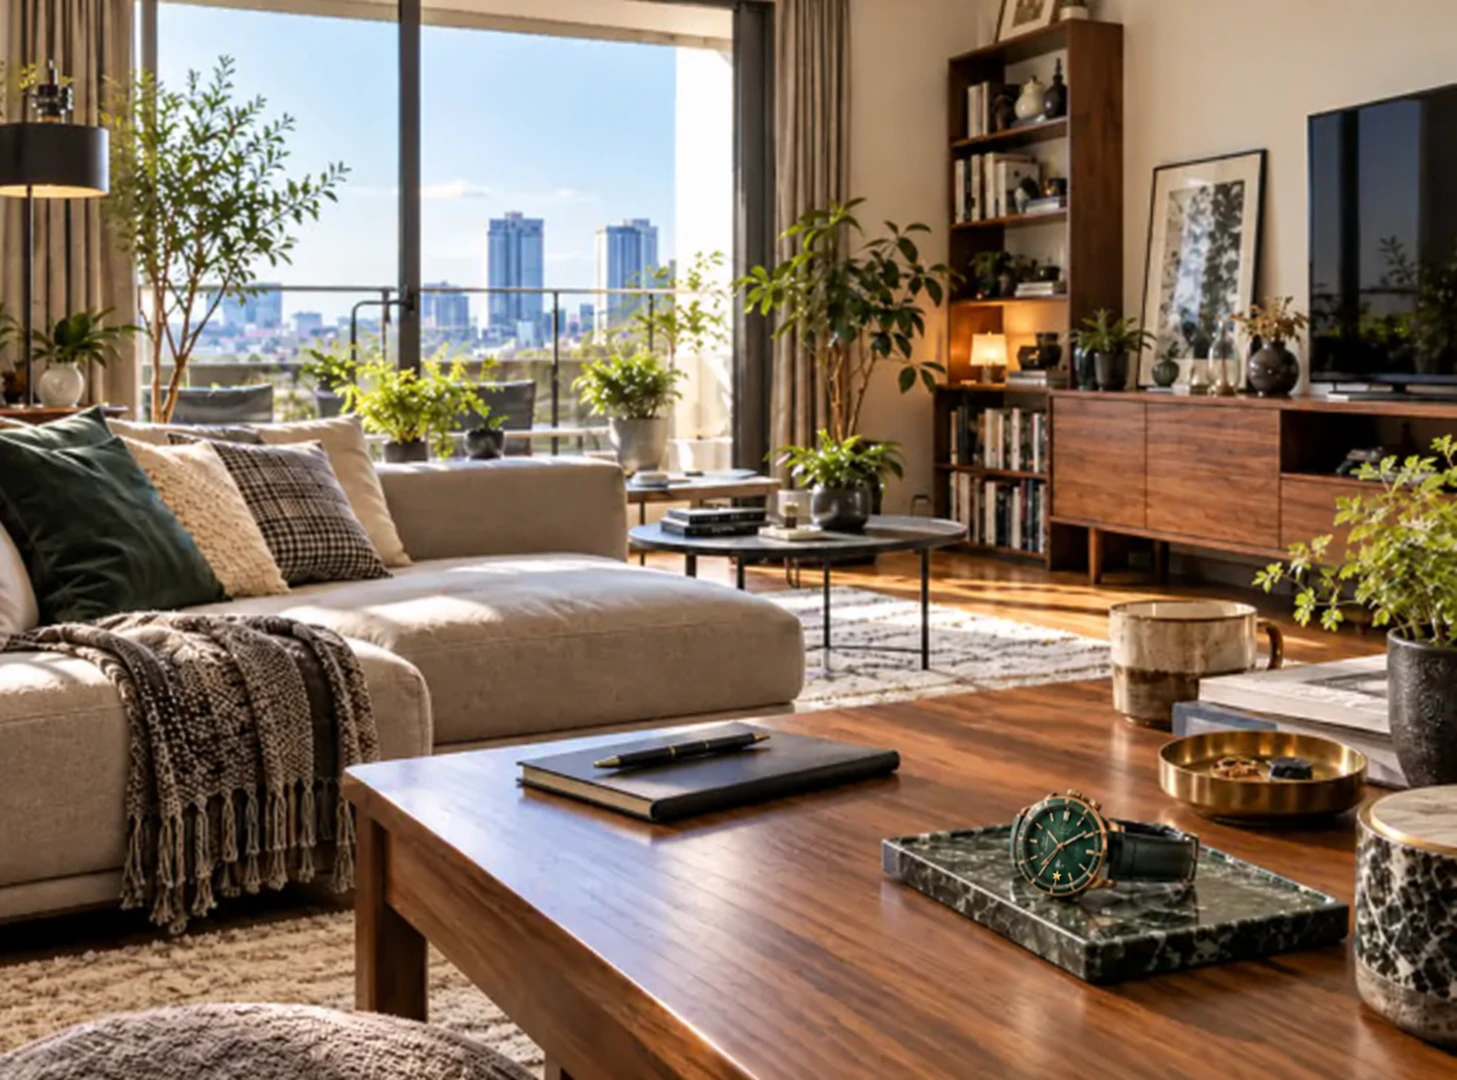
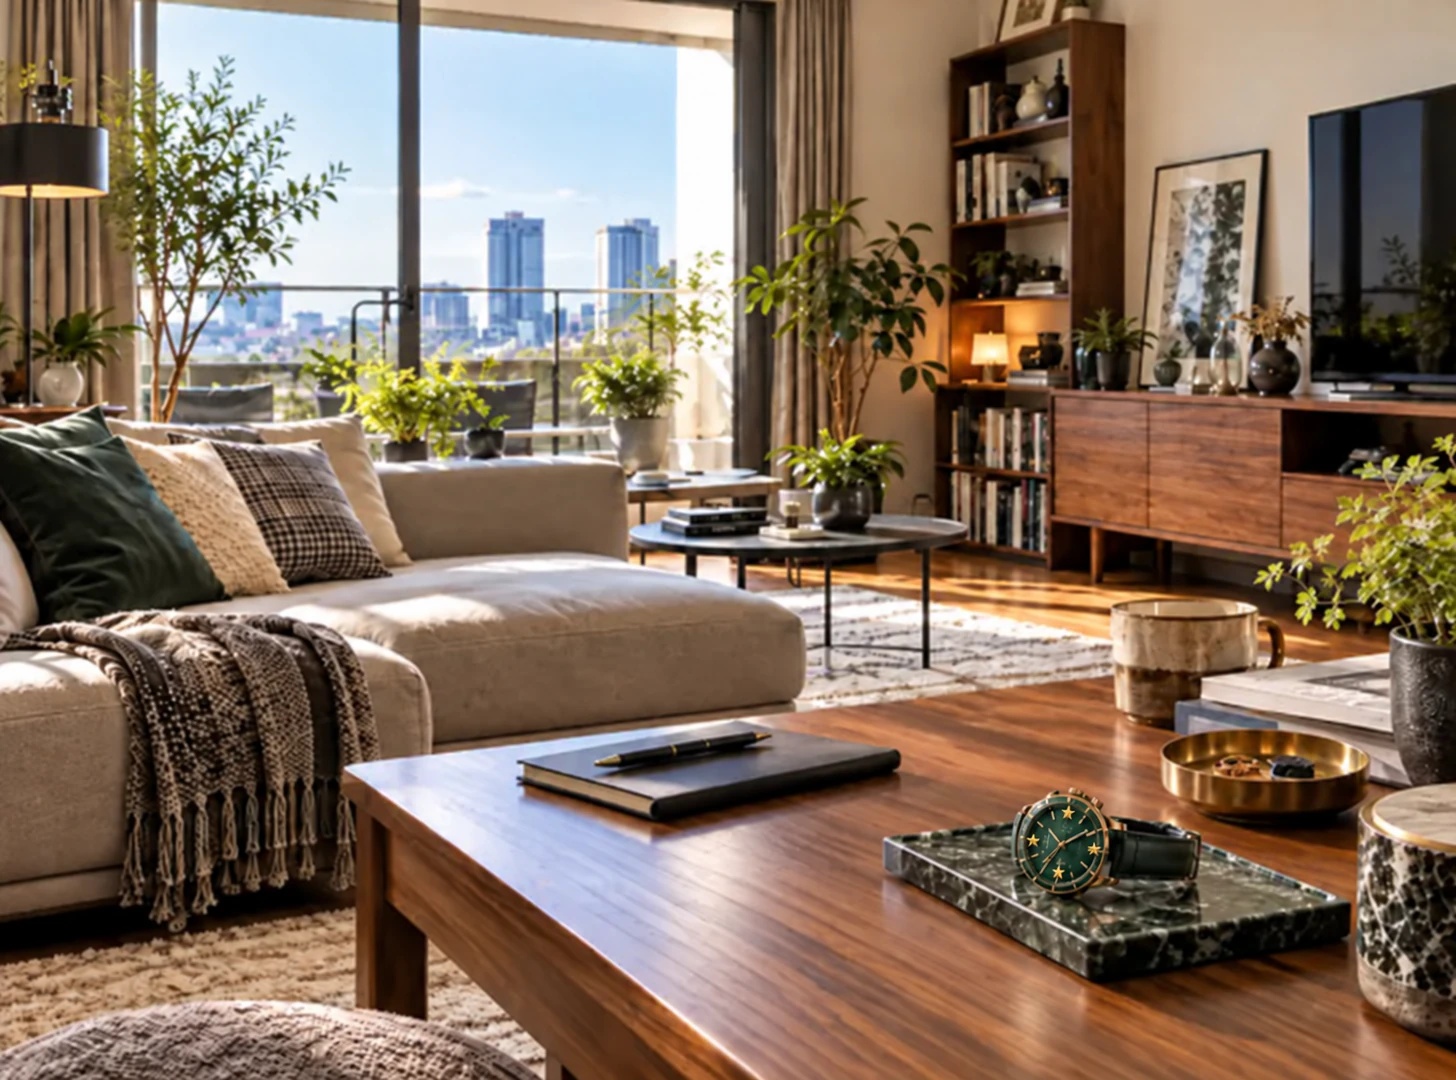
Add stars at cardinal markers on Fujimura watch

diff --git a/police/news/features/home-visit-fujimura/index.html b/police/news/features/home-visit-fujimura/index.html
@@ -17,7 +17,7 @@
 <p>本部内の各部署を横断し、資料の取りまとめや業務調整を担う本部総括。今回は、その中でも若手職員として幅広い調整業務を担当している藤村 智也さんの自宅を訪ねました。</p>
 
 <figure class="feature-photo feature-photo-home" style="max-width:560px;margin:30px auto 12px;">
-  <img src="../../../assets/img/features/fujimura-living.webp?v=20260928-star" alt="藤村職員の自宅リビング" width="560" height="420" style="display:block;width:560px;max-width:100%;height:auto;margin:0 auto;">
+  <img src="../../../assets/img/features/fujimura-living.webp?v=20260928-four-stars" alt="藤村職員の自宅リビング" width="560" height="420" style="display:block;width:560px;max-width:100%;height:auto;margin:0 auto;">
   <figcaption>リビングの一角。休日はここで本を読んだり、音楽を聴いたりして過ごすことが多いそうです。</figcaption>
 </figure>
 
